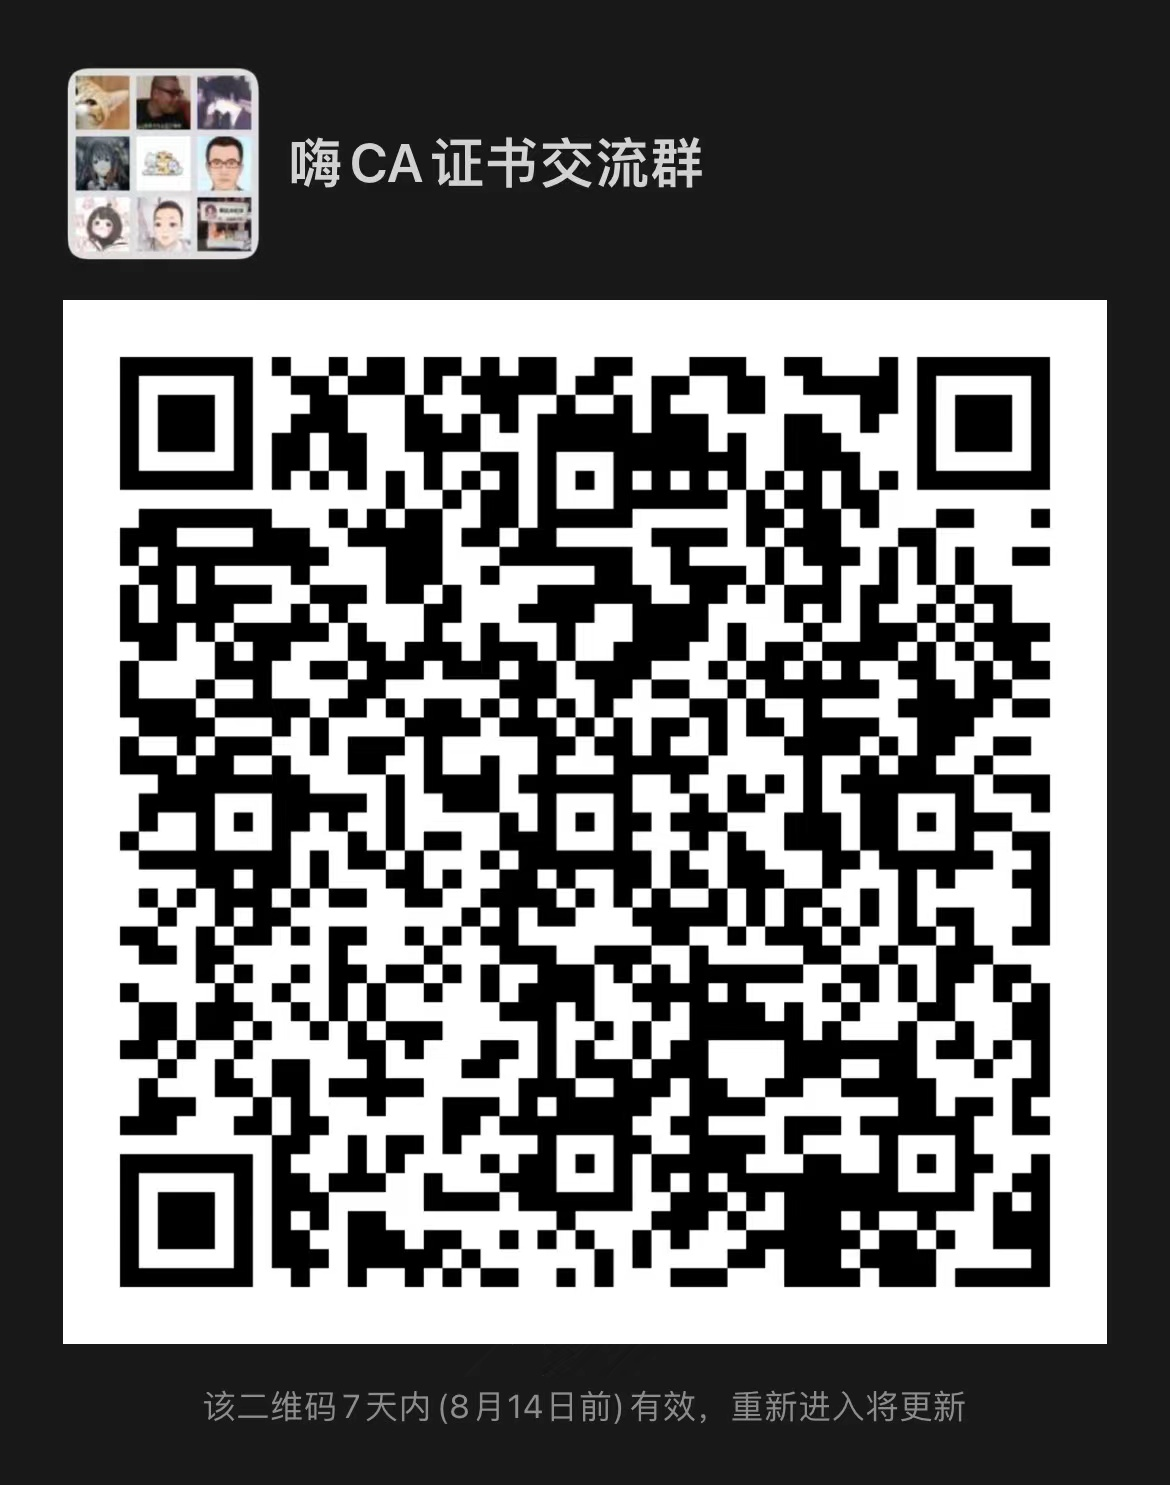
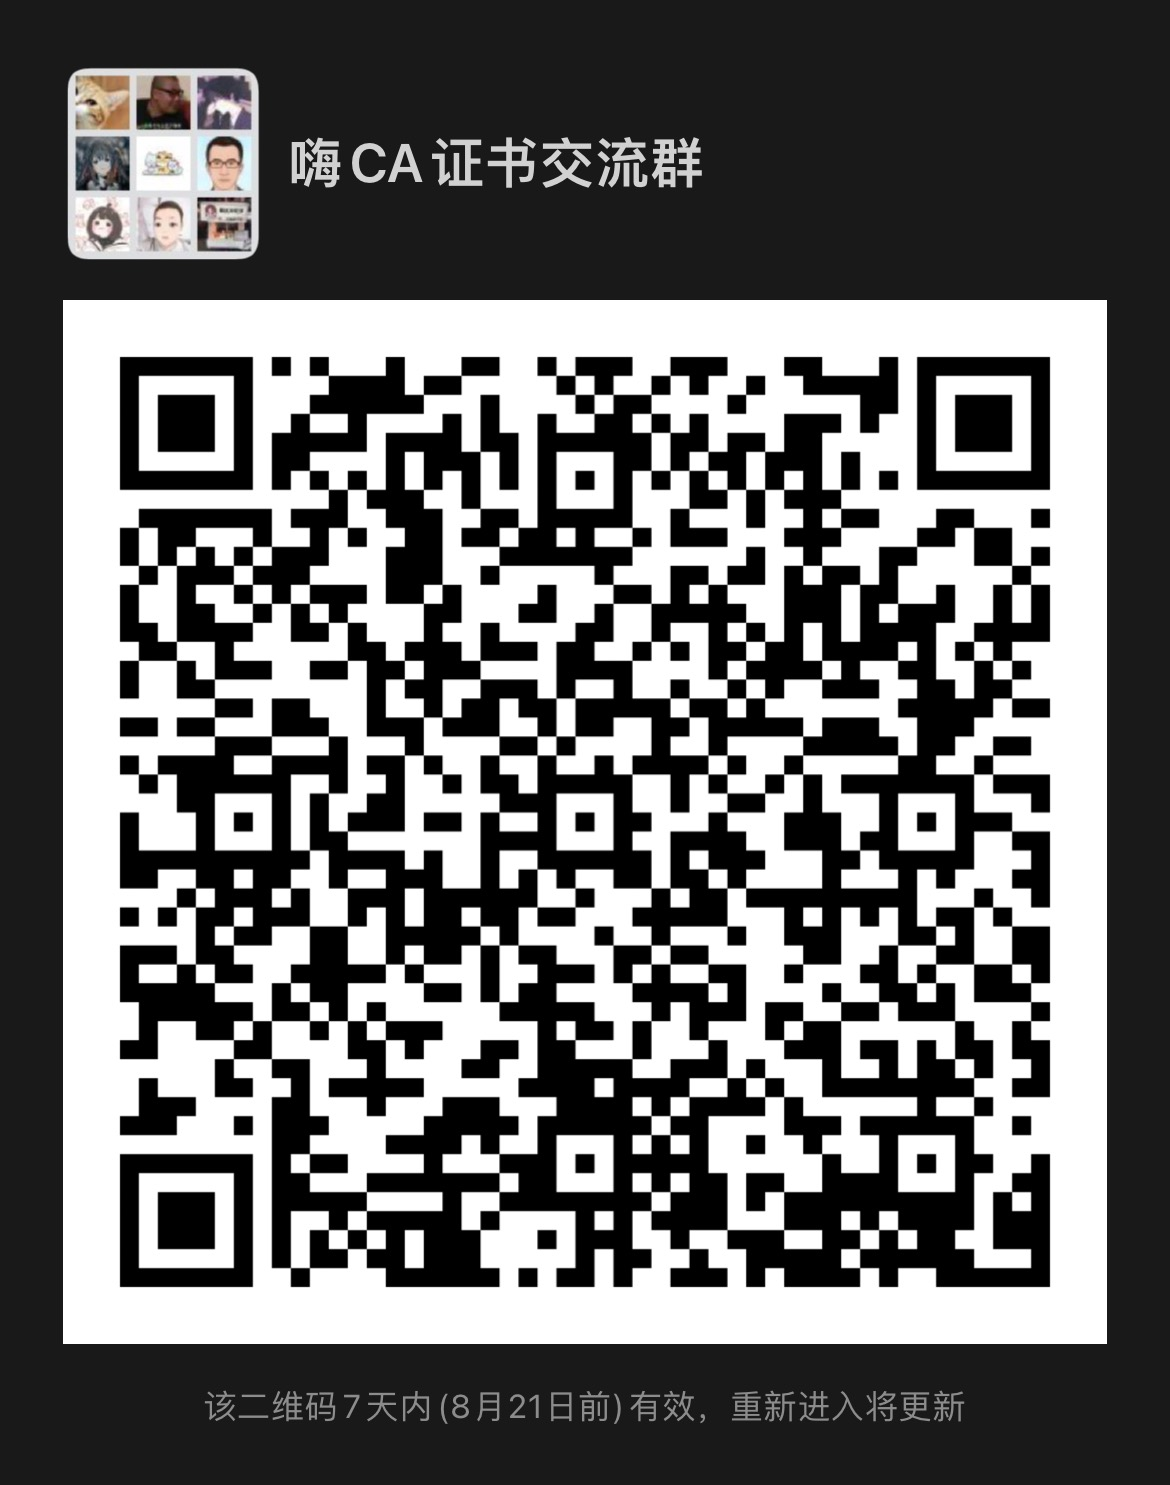
add wechat group page

diff --git a/docusaurus.config.js b/docusaurus.config.js
@@ -162,7 +162,7 @@ const config = {
               },
               {
                 label: 'Wechat 群',
-                href: 'https://www1.hi.cn/upload/wx-qun.jpeg',
+                href: '/wechat-group',
               },
             ],
           },

diff --git a/src/pages/wechat-group.md b/src/pages/wechat-group.md
@@ -1,0 +1,7 @@
+---
+title: 微信群
+---
+
+微信扫码加群.
+
+![微信群.jpg](/upload/wx-qun.jpeg)
